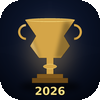
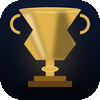
v1.2.2: ícono más grande sin texto + cache busting para forzar refresh
Diseño:
- Trofeo ocupa ~75% del canvas (antes ~55%): se ve mejor a 96-144 px
  que es el tamaño real en home screen de Android.
- Sin texto "2026" dentro del ícono. El launcher ya muestra el nombre
  "Álbum 2026" debajo, así que el texto adentro solo competía.
- Más contraste: oro más brillante (#e0b24e), fondo más oscuro
  (#030610), asas más prominentes (3% width vs 2.5%).
- Sin viñeta exagerada (a tamaño chico se veía sucia).

Cache busting:
- Todas las refs de íconos en HTML, manifest y SW llevan ?v=1.2.2.
- sw.js bumpeado a album-2026-v1.2.2 → al detectar el SW nuevo,
  el banner "Hay una versión nueva" aparece y al aplicar limpia
  el cache viejo.
- sw.js cambia a network-first para /icons/* y manifest (antes
  era cache-first, por eso los íconos viejos quedaban pegados).
- theme-color del navegador ahora #0a1432 (combina con el fondo
  del ícono).

Limitación conocida: Android cachea el ícono de las PWAs instaladas
en el launcher y NO se refresca automáticamente con un SW update.
Si ya tenés la app instalada con el ícono viejo, hay que desinstalar
(mantener apretado → Quitar) y reinstalar desde la URL.

Changed region(s): [[0.09, 0.06, 0.9, 0.96]]

diff --git a/index.html b/index.html
@@ -7,15 +7,15 @@
 <meta name="apple-mobile-web-app-status-bar-style" content="default">
 <meta name="apple-mobile-web-app-title" content="Álbum 2026">
 <meta name="mobile-web-app-capable" content="yes">
-<meta name="theme-color" content="#2563eb">
+<meta name="theme-color" content="#0a1432">
 <meta name="color-scheme" content="light">
 <meta name="format-detection" content="telephone=no">
 <meta name="referrer" content="no-referrer">
 <meta name="description" content="Llevá el control de tu álbum del Mundial 2026: marcá las que tenés, anotá las repetidas y coordiná intercambios con tu familia y tus amigos por WhatsApp. Todo se guarda en tu dispositivo, sin registro y sin servidor.">
-<link rel="icon" type="image/png" sizes="100x100" href="./icons/icon-100.png">
-<link rel="icon" type="image/png" sizes="192x192" href="./icons/icon-192.png">
-<link rel="apple-touch-icon" sizes="180x180" href="./icons/icon-180.png">
-<link rel="manifest" href="./manifest.webmanifest">
+<link rel="icon" type="image/png" sizes="100x100" href="./icons/icon-100.png?v=1.2.2">
+<link rel="icon" type="image/png" sizes="192x192" href="./icons/icon-192.png?v=1.2.2">
+<link rel="apple-touch-icon" sizes="180x180" href="./icons/icon-180.png?v=1.2.2">
+<link rel="manifest" href="./manifest.webmanifest?v=1.2.2">
 <title>Mi Álbum Mundial 2026</title>
 <style>
 *,:after,:before{--tw-border-spacing-x:0;--tw-border-spacing-y:0;--tw-translate-x:0;--tw-translate-y:0;--tw-rotate:0;--tw-skew-x:0;--tw-skew-y:0;--tw-scale-x:1;--tw-scale-y:1;--tw-pan-x: ;--tw-pan-y: ;--tw-pinch-zoom: ;--tw-scroll-snap-strictness:proximity;--tw-gradient-from-position: ;--tw-gradient-via-position: ;--tw-gradient-to-position: ;--tw-ordinal: ;--tw-slashed-zero: ;--tw-numeric-figure: ;--tw-numeric-spacing: ;--tw-numeric-fraction: ;--tw-ring-inset: ;--tw-ring-offset-width:0px;--tw-ring-offset-color:#fff;--tw-ring-color:rgba(59,130,246,.5);--tw-ring-offset-shadow:0 0 #0000;--tw-ring-shadow:0 0 #0000;--tw-shadow:0 0 #0000;--tw-shadow-colored:0 0 #0000;--tw-blur: ;--tw-brightness: ;--tw-contrast: ;--tw-grayscale: ;--tw-hue-rotate: ;--tw-invert: ;--tw-saturate: ;--tw-sepia: ;--tw-drop-shadow: ;--tw-backdrop-blur: ;--tw-backdrop-brightness: ;--tw-backdrop-contrast: ;--tw-backdrop-grayscale: ;--tw-backdrop-hue-rotate: ;--tw-backdrop-invert: ;--tw-backdrop-opacity: ;--tw-backdrop-saturate: ;--tw-backdrop-sepia: ;--tw-contain-size: ;--tw-contain-layout: ;--tw-contain-paint: ;--tw-contain-style: }::backdrop{--tw-border-spacing-x:0;--tw-border-spacing-y:0;--tw-translate-x:0;--tw-translate-y:0;--tw-rotate:0;--tw-skew-x:0;--tw-skew-y:0;--tw-scale-x:1;--tw-scale-y:1;--tw-pan-x: ;--tw-pan-y: ;--tw-pinch-zoom: ;--tw-scroll-snap-strictness:proximity;--tw-gradient-from-position: ;--tw-gradient-via-position: ;--tw-gradient-to-position: ;--tw-ordinal: ;--tw-slashed-zero: ;--tw-numeric-figure: ;--tw-numeric-spacing: ;--tw-numeric-fraction: ;--tw-ring-inset: ;--tw-ring-offset-width:0px;--tw-ring-offset-color:#fff;--tw-ring-color:rgba(59,130,246,.5);--tw-ring-offset-shadow:0 0 #0000;--tw-ring-shadow:0 0 #0000;--tw-shadow:0 0 #0000;--tw-shadow-colored:0 0 #0000;--tw-blur: ;--tw-brightness: ;--tw-contrast: ;--tw-grayscale: ;--tw-hue-rotate: ;--tw-invert: ;--tw-saturate: ;--tw-sepia: ;--tw-drop-shadow: ;--tw-backdrop-blur: ;--tw-backdrop-brightness: ;--tw-backdrop-contrast: ;--tw-backdrop-grayscale: ;--tw-backdrop-hue-rotate: ;--tw-backdrop-invert: ;--tw-backdrop-opacity: ;--tw-backdrop-saturate: ;--tw-backdrop-sepia: ;--tw-contain-size: ;--tw-contain-layout: ;--tw-contain-paint: ;--tw-contain-style: }/*! tailwindcss v3.4.16 | MIT License | https://tailwindcss.com*/*,:after,:before{box-sizing:border-box;border:0 solid #e5e7eb}:after,:before{--tw-content:""}:host,html{line-height:1.5;-webkit-text-size-adjust:100%;-moz-tab-size:4;-o-tab-size:4;tab-size:4;font-family:ui-sans-serif,system-ui,sans-serif,Apple Color Emoji,Segoe UI Emoji,Segoe UI Symbol,Noto Color Emoji;font-feature-settings:normal;font-variation-settings:normal;-webkit-tap-highlight-color:transparent}body{margin:0;line-height:inherit}hr{height:0;color:inherit;border-top-width:1px}abbr:where([title]){-webkit-text-decoration:underline dotted;text-decoration:underline dotted}h1,h2,h3,h4,h5,h6{font-size:inherit;font-weight:inherit}a{color:inherit;text-decoration:inherit}b,strong{font-weight:bolder}code,kbd,pre,samp{font-family:ui-monospace,SFMono-Regular,Menlo,Monaco,Consolas,Liberation Mono,Courier New,monospace;font-feature-settings:normal;font-variation-settings:normal;font-size:1em}small{font-size:80%}sub,sup{font-size:75%;line-height:0;position:relative;vertical-align:baseline}sub{bottom:-.25em}sup{top:-.5em}table{text-indent:0;border-color:inherit;border-collapse:collapse}button,input,optgroup,select,textarea{font-family:inherit;font-feature-settings:inherit;font-variation-settings:inherit;font-size:100%;font-weight:inherit;line-height:inherit;letter-spacing:inherit;color:inherit;margin:0;padding:0}button,select{text-transform:none}button,input:where([type=button]),input:where([type=reset]),input:where([type=submit]){-webkit-appearance:button;background-color:transparent;background-image:none}:-moz-focusring{outline:auto}:-moz-ui-invalid{box-shadow:none}progress{vertical-align:baseline}::-webkit-inner-spin-button,::-webkit-outer-spin-button{height:auto}[type=search]{-webkit-appearance:textfield;outline-offset:-2px}::-webkit-search-decoration{-webkit-appearance:none}::-webkit-file-upload-button{-webkit-appearance:button;font:inherit}summary{display:list-item}blockquote,dd,dl,figure,h1,h2,h3,h4,h5,h6,hr,p,pre{margin:0}fieldset{margin:0}fieldset,legend{padding:0}menu,ol,ul{list-style:none;margin:0;padding:0}dialog{padding:0}textarea{resize:vertical}input::-moz-placeholder,textarea::-moz-placeholder{opacity:1;color:#9ca3af}input::placeholder,textarea::placeholder{opacity:1;color:#9ca3af}[role=button],button{cursor:pointer}:disabled{cursor:default}audio,canvas,embed,iframe,img,object,svg,video{display:block;vertical-align:middle}img,video{max-width:100%;height:auto}[hidden]:where(:not([hidden=until-found])){display:none}.visible{visibility:visible}.fixed{position:fixed}.absolute{position:absolute}.relative{position:relative}.sticky{position:sticky}.inset-x-0{left:0;right:0}.-bottom-1{bottom:-.25rem}.top-0{top:0}.z-20{z-index:20}.-mx-1{margin-left:-.25rem;margin-right:-.25rem}.mx-auto{margin-left:auto;margin-right:auto}.mb-1{margin-bottom:.25rem}.mb-2{margin-bottom:.5rem}.mb-3{margin-bottom:.75rem}.mb-4{margin-bottom:1rem}.mb-5{margin-bottom:1.25rem}.mb-6{margin-bottom:1.5rem}.mb-8{margin-bottom:2rem}.ml-1{margin-left:.25rem}.mr-2{margin-right:.5rem}.mt-0{margin-top:0}.mt-0\.5{margin-top:.125rem}.mt-1{margin-top:.25rem}.mt-1\.5{margin-top:.375rem}.mt-10{margin-top:2.5rem}.mt-12{margin-top:3rem}.mt-2{margin-top:.5rem}.mt-3{margin-top:.75rem}.mt-4{margin-top:1rem}.block{display:block}.inline-block{display:inline-block}.flex{display:flex}.table{display:table}.grid{display:grid}.hidden{display:none}.aspect-square{aspect-ratio:1/1}.h-1{height:.25rem}.h-1\.5{height:.375rem}.h-2{height:.5rem}.h-4{height:1rem}.h-5{height:1.25rem}.h-7{height:1.75rem}.h-9{height:2.25rem}.h-full{height:100%}.max-h-20{max-height:5rem}.max-h-48{max-height:12rem}.w-2{width:.5rem}.w-28{width:7rem}.w-4{width:1rem}.w-5{width:1.25rem}.w-7{width:1.75rem}.w-9{width:2.25rem}.w-full{width:100%}.min-w-0{min-width:0}.max-w-3xl{max-width:48rem}.flex-1{flex:1 1 0%}.shrink-0{flex-shrink:0}.transform{transform:translate(var(--tw-translate-x),var(--tw-translate-y)) rotate(var(--tw-rotate)) skewX(var(--tw-skew-x)) skewY(var(--tw-skew-y)) scaleX(var(--tw-scale-x)) scaleY(var(--tw-scale-y))}.cursor-pointer{cursor:pointer}.resize-none{resize:none}.resize{resize:both}.grid-cols-1{grid-template-columns:repeat(1,minmax(0,1fr))}.grid-cols-2{grid-template-columns:repeat(2,minmax(0,1fr))}.grid-cols-4{grid-template-columns:repeat(4,minmax(0,1fr))}.grid-cols-5{grid-template-columns:repeat(5,minmax(0,1fr))}.flex-col{flex-direction:column}.items-start{align-items:flex-start}.items-center{align-items:center}.items-baseline{align-items:baseline}.justify-center{justify-content:center}.justify-between{justify-content:space-between}.gap-1{gap:.25rem}.gap-1\.5{gap:.375rem}.gap-2{gap:.5rem}.gap-3{gap:.75rem}.gap-x-1{-moz-column-gap:.25rem;column-gap:.25rem}.gap-x-1\.5{-moz-column-gap:.375rem;column-gap:.375rem}.gap-y-3{row-gap:.75rem}.space-y-1>:not([hidden])~:not([hidden]){--tw-space-y-reverse:0;margin-top:calc(.25rem*(1 - var(--tw-space-y-reverse)));margin-bottom:calc(.25rem*var(--tw-space-y-reverse))}.space-y-1\.5>:not([hidden])~:not([hidden]){--tw-space-y-reverse:0;margin-top:calc(.375rem*(1 - var(--tw-space-y-reverse)));margin-bottom:calc(.375rem*var(--tw-space-y-reverse))}.space-y-2>:not([hidden])~:not([hidden]){--tw-space-y-reverse:0;margin-top:calc(.5rem*(1 - var(--tw-space-y-reverse)));margin-bottom:calc(.5rem*var(--tw-space-y-reverse))}.space-y-3>:not([hidden])~:not([hidden]){--tw-space-y-reverse:0;margin-top:calc(.75rem*(1 - var(--tw-space-y-reverse)));margin-bottom:calc(.75rem*var(--tw-space-y-reverse))}.divide-x>:not([hidden])~:not([hidden]){--tw-divide-x-reverse:0;border-right-width:calc(1px*var(--tw-divide-x-reverse));border-left-width:calc(1px*(1 - var(--tw-divide-x-reverse)))}.divide-gray-100>:not([hidden])~:not([hidden]){--tw-divide-opacity:1;border-color:rgb(243 244 246/var(--tw-divide-opacity,1))}.overflow-hidden{overflow:hidden}.overflow-y-auto{overflow-y:auto}.truncate{overflow:hidden;text-overflow:ellipsis;white-space:nowrap}.break-all{word-break:break-all}.rounded-2xl{border-radius:1rem}.rounded-full{border-radius:9999px}.rounded-lg{border-radius:.5rem}.rounded-md{border-radius:.375rem}.rounded-xl{border-radius:.75rem}.border{border-width:1px}.border-2{border-width:2px}.border-b{border-bottom-width:1px}.border-b-2{border-bottom-width:2px}.border-t{border-top-width:1px}.border-amber-200{--tw-border-opacity:1;border-color:rgb(253 230 138/var(--tw-border-opacity,1))}.border-amber-300{--tw-border-opacity:1;border-color:rgb(252 211 77/var(--tw-border-opacity,1))}.border-amber-400{--tw-border-opacity:1;border-color:rgb(251 191 36/var(--tw-border-opacity,1))}.border-blue-200{--tw-border-opacity:1;border-color:rgb(191 219 254/var(--tw-border-opacity,1))}.border-blue-300{--tw-border-opacity:1;border-color:rgb(147 197 253/var(--tw-border-opacity,1))}.border-emerald-200{--tw-border-opacity:1;border-color:rgb(167 243 208/var(--tw-border-opacity,1))}.border-emerald-300{--tw-border-opacity:1;border-color:rgb(110 231 183/var(--tw-border-opacity,1))}.border-gray-100{--tw-border-opacity:1;border-color:rgb(243 244 246/var(--tw-border-opacity,1))}.border-gray-200{--tw-border-opacity:1;border-color:rgb(229 231 235/var(--tw-border-opacity,1))}.border-gray-300{--tw-border-opacity:1;border-color:rgb(209 213 219/var(--tw-border-opacity,1))}.border-indigo-200{--tw-border-opacity:1;border-color:rgb(199 210 254/var(--tw-border-opacity,1))}.border-pink-200{--tw-border-opacity:1;border-color:rgb(251 207 232/var(--tw-border-opacity,1))}.border-pink-300{--tw-border-opacity:1;border-color:rgb(249 168 212/var(--tw-border-opacity,1))}.border-purple-300{--tw-border-opacity:1;border-color:rgb(216 180 254/var(--tw-border-opacity,1))}.border-red-400{--tw-border-opacity:1;border-color:rgb(248 113 113/var(--tw-border-opacity,1))}.bg-amber-100{--tw-bg-opacity:1;background-color:rgb(254 243 199/var(--tw-bg-opacity,1))}.bg-amber-50{--tw-bg-opacity:1;background-color:rgb(255 251 235/var(--tw-bg-opacity,1))}.bg-amber-500{--tw-bg-opacity:1;background-color:rgb(245 158 11/var(--tw-bg-opacity,1))}.bg-amber-600{--tw-bg-opacity:1;background-color:rgb(217 119 6/var(--tw-bg-opacity,1))}.bg-blue-50{--tw-bg-opacity:1;background-color:rgb(239 246 255/var(--tw-bg-opacity,1))}.bg-blue-500{--tw-bg-opacity:1;background-color:rgb(59 130 246/var(--tw-bg-opacity,1))}.bg-blue-600{--tw-bg-opacity:1;background-color:rgb(37 99 235/var(--tw-bg-opacity,1))}.bg-emerald-100{--tw-bg-opacity:1;background-color:rgb(209 250 229/var(--tw-bg-opacity,1))}.bg-emerald-50{--tw-bg-opacity:1;background-color:rgb(236 253 245/var(--tw-bg-opacity,1))}.bg-emerald-600{--tw-bg-opacity:1;background-color:rgb(5 150 105/var(--tw-bg-opacity,1))}.bg-gray-100{--tw-bg-opacity:1;background-color:rgb(243 244 246/var(--tw-bg-opacity,1))}.bg-gray-50{--tw-bg-opacity:1;background-color:rgb(249 250 251/var(--tw-bg-opacity,1))}.bg-gray-900{--tw-bg-opacity:1;background-color:rgb(17 24 39/var(--tw-bg-opacity,1))}.bg-green-600{--tw-bg-opacity:1;background-color:rgb(22 163 74/var(--tw-bg-opacity,1))}.bg-indigo-50{--tw-bg-opacity:1;background-color:rgb(238 242 255/var(--tw-bg-opacity,1))}.bg-indigo-600{--tw-bg-opacity:1;background-color:rgb(79 70 229/var(--tw-bg-opacity,1))}.bg-pink-500{--tw-bg-opacity:1;background-color:rgb(236 72 153/var(--tw-bg-opacity,1))}.bg-purple-50{--tw-bg-opacity:1;background-color:rgb(250 245 255/var(--tw-bg-opacity,1))}.bg-purple-600{--tw-bg-opacity:1;background-color:rgb(147 51 234/var(--tw-bg-opacity,1))}.bg-red-100{--tw-bg-opacity:1;background-color:rgb(254 226 226/var(--tw-bg-opacity,1))}.bg-red-50{--tw-bg-opacity:1;background-color:rgb(254 242 242/var(--tw-bg-opacity,1))}.bg-red-600{--tw-bg-opacity:1;background-color:rgb(220 38 38/var(--tw-bg-opacity,1))}.bg-transparent{background-color:transparent}.bg-white{--tw-bg-opacity:1;background-color:rgb(255 255 255/var(--tw-bg-opacity,1))}.bg-white\/95{background-color:hsla(0,0%,100%,.95)}.bg-gradient-to-br{background-image:linear-gradient(to bottom right,var(--tw-gradient-stops))}.from-pink-50{--tw-gradient-from:#fdf2f8 var(--tw-gradient-from-position);--tw-gradient-to:rgba(253,242,248,0) var(--tw-gradient-to-position);--tw-gradient-stops:var(--tw-gradient-from),var(--tw-gradient-to)}.to-rose-50{--tw-gradient-to:#fff1f2 var(--tw-gradient-to-position)}.p-1{padding:.25rem}.p-3{padding:.75rem}.p-4{padding:1rem}.p-5{padding:1.25rem}.p-6{padding:1.5rem}.px-1{padding-left:.25rem;padding-right:.25rem}.px-2{padding-left:.5rem;padding-right:.5rem}.px-2\.5{padding-left:.625rem;padding-right:.625rem}.px-3{padding-left:.75rem;padding-right:.75rem}.px-4{padding-left:1rem;padding-right:1rem}.py-1{padding-top:.25rem;padding-bottom:.25rem}.py-1\.5{padding-top:.375rem;padding-bottom:.375rem}.py-2{padding-top:.5rem;padding-bottom:.5rem}.py-2\.5{padding-top:.625rem;padding-bottom:.625rem}.py-3{padding-top:.75rem;padding-bottom:.75rem}.py-4{padding-top:1rem;padding-bottom:1rem}.py-6{padding-top:1.5rem;padding-bottom:1.5rem}.pb-12{padding-bottom:3rem}.pb-2{padding-bottom:.5rem}.pb-3{padding-bottom:.75rem}.pb-32{padding-bottom:8rem}.pb-5{padding-bottom:1.25rem}.pb-6{padding-bottom:1.5rem}.pb-8{padding-bottom:2rem}.pt-3{padding-top:.75rem}.pt-4{padding-top:1rem}.text-center{text-align:center}.text-right{text-align:right}.align-text-bottom{vertical-align:text-bottom}.font-mono{font-family:ui-monospace,SFMono-Regular,Menlo,Monaco,Consolas,Liberation Mono,Courier New,monospace}.text-2xl{font-size:1.5rem;line-height:2rem}.text-3xl{font-size:1.875rem;line-height:2.25rem}.text-\[10px\]{font-size:10px}.text-\[11px\]{font-size:11px}.text-\[8px\]{font-size:8px}.text-\[9px\]{font-size:9px}.text-base{font-size:1rem;line-height:1.5rem}.text-lg{font-size:1.125rem;line-height:1.75rem}.text-sm{font-size:.875rem;line-height:1.25rem}.text-xl{font-size:1.25rem;line-height:1.75rem}.text-xs{font-size:.75rem;line-height:1rem}.font-bold{font-weight:700}.font-medium{font-weight:500}.font-semibold{font-weight:600}.uppercase{text-transform:uppercase}.italic{font-style:italic}.tabular-nums{--tw-numeric-spacing:tabular-nums;font-variant-numeric:var(--tw-ordinal) var(--tw-slashed-zero) var(--tw-numeric-figure) var(--tw-numeric-spacing) var(--tw-numeric-fraction)}.leading-none{line-height:1}.leading-relaxed{line-height:1.625}.leading-snug{line-height:1.375}.leading-tight{line-height:1.25}.tracking-\[0\.15em\]{letter-spacing:.15em}.tracking-\[0\.1em\]{letter-spacing:.1em}.tracking-tight{letter-spacing:-.025em}.tracking-wider{letter-spacing:.05em}.text-amber-600{--tw-text-opacity:1;color:rgb(217 119 6/var(--tw-text-opacity,1))}.text-amber-700{--tw-text-opacity:1;color:rgb(180 83 9/var(--tw-text-opacity,1))}.text-amber-900{--tw-text-opacity:1;color:rgb(120 53 15/var(--tw-text-opacity,1))}.text-blue-600{--tw-text-opacity:1;color:rgb(37 99 235/var(--tw-text-opacity,1))}.text-blue-700{--tw-text-opacity:1;color:rgb(29 78 216/var(--tw-text-opacity,1))}.text-emerald-600{--tw-text-opacity:1;color:rgb(5 150 105/var(--tw-text-opacity,1))}.text-emerald-700{--tw-text-opacity:1;color:rgb(4 120 87/var(--tw-text-opacity,1))}.text-emerald-800{--tw-text-opacity:1;color:rgb(6 95 70/var(--tw-text-opacity,1))}.text-emerald-900{--tw-text-opacity:1;color:rgb(6 78 59/var(--tw-text-opacity,1))}.text-gray-300{--tw-text-opacity:1;color:rgb(209 213 219/var(--tw-text-opacity,1))}.text-gray-400{--tw-text-opacity:1;color:rgb(156 163 175/var(--tw-text-opacity,1))}.text-gray-500{--tw-text-opacity:1;color:rgb(107 114 128/var(--tw-text-opacity,1))}.text-gray-600{--tw-text-opacity:1;color:rgb(75 85 99/var(--tw-text-opacity,1))}.text-gray-700{--tw-text-opacity:1;color:rgb(55 65 81/var(--tw-text-opacity,1))}.text-gray-900{--tw-text-opacity:1;color:rgb(17 24 39/var(--tw-text-opacity,1))}.text-green-600{--tw-text-opacity:1;color:rgb(22 163 74/var(--tw-text-opacity,1))}.text-green-700{--tw-text-opacity:1;color:rgb(21 128 61/var(--tw-text-opacity,1))}.text-indigo-600{--tw-text-opacity:1;color:rgb(79 70 229/var(--tw-text-opacity,1))}.text-indigo-700{--tw-text-opacity:1;color:rgb(67 56 202/var(--tw-text-opacity,1))}.text-pink-700{--tw-text-opacity:1;color:rgb(190 24 93/var(--tw-text-opacity,1))}.text-purple-600{--tw-text-opacity:1;color:rgb(147 51 234/var(--tw-text-opacity,1))}.text-purple-700{--tw-text-opacity:1;color:rgb(126 34 206/var(--tw-text-opacity,1))}.text-red-500{--tw-text-opacity:1;color:rgb(239 68 68/var(--tw-text-opacity,1))}.text-red-600{--tw-text-opacity:1;color:rgb(220 38 38/var(--tw-text-opacity,1))}.text-red-900{--tw-text-opacity:1;color:rgb(127 29 29/var(--tw-text-opacity,1))}.text-white{--tw-text-opacity:1;color:rgb(255 255 255/var(--tw-text-opacity,1))}.text-white\/80{color:hsla(0,0%,100%,.8)}.text-white\/90{color:hsla(0,0%,100%,.9)}.underline{text-decoration-line:underline}.opacity-60{opacity:.6}.opacity-70{opacity:.7}.opacity-90{opacity:.9}.shadow-sm{--tw-shadow:0 1px 2px 0 rgba(0,0,0,.05);--tw-shadow-colored:0 1px 2px 0 var(--tw-shadow-color);box-shadow:var(--tw-ring-offset-shadow,0 0 #0000),var(--tw-ring-shadow,0 0 #0000),var(--tw-shadow)}.outline{outline-style:solid}.blur{--tw-blur:blur(8px)}.blur,.filter{filter:var(--tw-blur) var(--tw-brightness) var(--tw-contrast) var(--tw-grayscale) var(--tw-hue-rotate) var(--tw-invert) var(--tw-saturate) var(--tw-sepia) var(--tw-drop-shadow)}.backdrop-blur-md{--tw-backdrop-blur:blur(12px);-webkit-backdrop-filter:var(--tw-backdrop-blur) var(--tw-backdrop-brightness) var(--tw-backdrop-contrast) var(--tw-backdrop-grayscale) var(--tw-backdrop-hue-rotate) var(--tw-backdrop-invert) var(--tw-backdrop-opacity) var(--tw-backdrop-saturate) var(--tw-backdrop-sepia);backdrop-filter:var(--tw-backdrop-blur) var(--tw-backdrop-brightness) var(--tw-backdrop-contrast) var(--tw-backdrop-grayscale) var(--tw-backdrop-hue-rotate) var(--tw-backdrop-invert) var(--tw-backdrop-opacity) var(--tw-backdrop-saturate) var(--tw-backdrop-sepia)}.transition-all{transition-property:all;transition-timing-function:cubic-bezier(.4,0,.2,1);transition-duration:.15s}.transition-colors{transition-property:color,background-color,border-color,text-decoration-color,fill,stroke;transition-timing-function:cubic-bezier(.4,0,.2,1);transition-duration:.15s}.duration-300{transition-duration:.3s}.focus\:border-amber-500:focus{--tw-border-opacity:1;border-color:rgb(245 158 11/var(--tw-border-opacity,1))}.focus\:border-blue-500:focus{--tw-border-opacity:1;border-color:rgb(59 130 246/var(--tw-border-opacity,1))}.focus\:border-emerald-500:focus{--tw-border-opacity:1;border-color:rgb(16 185 129/var(--tw-border-opacity,1))}.focus\:outline-none:focus{outline:2px solid transparent;outline-offset:2px}.active\:bg-amber-600:active{--tw-bg-opacity:1;background-color:rgb(217 119 6/var(--tw-bg-opacity,1))}.active\:bg-amber-700:active{--tw-bg-opacity:1;background-color:rgb(180 83 9/var(--tw-bg-opacity,1))}.active\:bg-blue-50:active{--tw-bg-opacity:1;background-color:rgb(239 246 255/var(--tw-bg-opacity,1))}.active\:bg-blue-600:active{--tw-bg-opacity:1;background-color:rgb(37 99 235/var(--tw-bg-opacity,1))}.active\:bg-emerald-100:active{--tw-bg-opacity:1;background-color:rgb(209 250 229/var(--tw-bg-opacity,1))}.active\:bg-emerald-700:active{--tw-bg-opacity:1;background-color:rgb(4 120 87/var(--tw-bg-opacity,1))}.active\:bg-gray-100:active{--tw-bg-opacity:1;background-color:rgb(243 244 246/var(--tw-bg-opacity,1))}.active\:bg-gray-200:active{--tw-bg-opacity:1;background-color:rgb(229 231 235/var(--tw-bg-opacity,1))}.active\:bg-green-700:active{--tw-bg-opacity:1;background-color:rgb(21 128 61/var(--tw-bg-opacity,1))}.active\:bg-indigo-100:active{--tw-bg-opacity:1;background-color:rgb(224 231 255/var(--tw-bg-opacity,1))}.active\:bg-indigo-700:active{--tw-bg-opacity:1;background-color:rgb(67 56 202/var(--tw-bg-opacity,1))}.active\:bg-pink-50:active{--tw-bg-opacity:1;background-color:rgb(253 242 248/var(--tw-bg-opacity,1))}.active\:bg-pink-600:active{--tw-bg-opacity:1;background-color:rgb(219 39 119/var(--tw-bg-opacity,1))}.active\:bg-purple-100:active{--tw-bg-opacity:1;background-color:rgb(243 232 255/var(--tw-bg-opacity,1))}.active\:bg-purple-700:active{--tw-bg-opacity:1;background-color:rgb(126 34 206/var(--tw-bg-opacity,1))}.active\:text-blue-800:active{--tw-text-opacity:1;color:rgb(30 64 175/var(--tw-text-opacity,1))}.active\:text-emerald-900:active{--tw-text-opacity:1;color:rgb(6 78 59/var(--tw-text-opacity,1))}.active\:text-gray-600:active{--tw-text-opacity:1;color:rgb(75 85 99/var(--tw-text-opacity,1))}.active\:text-indigo-800:active{--tw-text-opacity:1;color:rgb(55 48 163/var(--tw-text-opacity,1))}.active\:text-red-500:active{--tw-text-opacity:1;color:rgb(239 68 68/var(--tw-text-opacity,1))}.active\:text-white:active{--tw-text-opacity:1;color:rgb(255 255 255/var(--tw-text-opacity,1))}@media (min-width:640px){.sm\:grid-cols-10{grid-template-columns:repeat(10,minmax(0,1fr))}.sm\:grid-cols-2{grid-template-columns:repeat(2,minmax(0,1fr))}.sm\:grid-cols-7{grid-template-columns:repeat(7,minmax(0,1fr))}.sm\:text-sm{font-size:.875rem;line-height:1.25rem}}
@@ -146,7 +146,7 @@ const ejecutarPromptInstalacion = async () => {
 // ====== CONTROL DE VERSIÓN Y ACTUALIZACIONES ======
 // La versión que se ve en el footer y se compara con la del SW para detectar
 // si hay una versión nueva descargada esperando aplicarse.
-const APP_VERSION = '1.2';
+const APP_VERSION = '1.2.2';
 const APP_BUILD = '2026-05-18';
 const STORAGE_KEY_UPDATE_DISMISS = 'album-mundial-2026-update-dismiss';
 
@@ -1988,7 +1988,7 @@ function render() {
     <footer class="max-w-3xl mx-auto px-4 pb-12 pt-4 border-t border-gray-100">
       <div class="flex items-center justify-between text-[11px] text-gray-400">
         <div class="flex items-center gap-2">
-          <img src="./icons/icon-100.png" alt="" width="20" height="20" class="rounded-md" onerror="this.style.display='none'">
+          <img src="./icons/icon-100.png?v=1.2.2" alt="" width="20" height="20" class="rounded-md" onerror="this.style.display='none'">
           <span class="font-semibold text-gray-500">Álbum Mundial 2026</span>
           <span class="tabular-nums">v${APP_VERSION}</span>
         </div>

diff --git a/sw.js b/sw.js
@@ -13,21 +13,21 @@
 // hacerlo nuestro listener 'updatefound' en el HTML va a disparar y mostrarle
 // al usuario el banner "Hay una versión nueva".
 
-const CACHE_VERSION = 'album-2026-v1.2';
+const CACHE_VERSION = 'album-2026-v1.2.2';
 const URLS_A_CACHEAR = [
   './',
   './index.html',
-  './manifest.webmanifest',
-  './icons/icon-100.png',
-  './icons/icon-180.png',
-  './icons/icon-192.png',
-  './icons/icon-512.png',
+  './manifest.webmanifest?v=1.2.2',
+  './icons/icon-100.png?v=1.2.2',
+  './icons/icon-180.png?v=1.2.2',
+  './icons/icon-192.png?v=1.2.2',
+  './icons/icon-512.png?v=1.2.2',
+  './icons/icon-512-maskable.png?v=1.2.2',
 ];
 
 self.addEventListener('install', (event) => {
   event.waitUntil(
     caches.open(CACHE_VERSION).then((cache) =>
-      // addAll falla si UN solo recurso falla; usamos add individual con catch.
       Promise.all(URLS_A_CACHEAR.map((url) =>
         cache.add(url).catch(() => null)
       ))
@@ -45,7 +45,6 @@ self.addEventListener('activate', (event) => {
   );
 });
 
-// Mensajes desde la página (para aplicar updates a pedido)
 self.addEventListener('message', (event) => {
   if (!event.data) return;
   if (event.data.type === 'SKIP_WAITING') {
@@ -58,7 +57,6 @@ self.addEventListener('fetch', (event) => {
   if (req.method !== 'GET') return;
 
   const url = new URL(req.url);
-  // Solo intervenimos en peticiones a nuestro origen
   if (url.origin !== self.location.origin) return;
 
   const esNavegacion = req.mode === 'navigate' ||
@@ -66,8 +64,8 @@ self.addEventListener('fetch', (event) => {
     (req.headers.get('accept') || '').includes('text/html');
 
   if (esNavegacion) {
-    // Network-first para la navegación: así, si publicamos una versión nueva,
-    // los usuarios la reciben al toque cuando están online.
+    // Network-first para la navegación: si publicamos una versión nueva,
+    // los usuarios la reciben enseguida cuando están online.
     event.respondWith(
       fetch(req).then((res) => {
         if (res && res.status === 200) {
@@ -82,7 +80,22 @@ self.addEventListener('fetch', (event) => {
     return;
   }
 
-  // Cache-first para el resto (íconos, manifest, etc.)
+  // Para los íconos, network-first también: así si cambian, los recibís
+  // al toque y no se quedan pegados los viejos al actualizar la app.
+  if (url.pathname.includes('/icons/') || url.pathname.endsWith('manifest.webmanifest')) {
+    event.respondWith(
+      fetch(req).then((res) => {
+        if (res && (res.status === 200 || res.type === 'opaque')) {
+          const copia = res.clone();
+          caches.open(CACHE_VERSION).then((cache) => cache.put(req, copia)).catch(() => {});
+        }
+        return res;
+      }).catch(() => caches.match(req))
+    );
+    return;
+  }
+
+  // Cache-first para el resto
   event.respondWith(
     caches.match(req).then((cached) => {
       if (cached) return cached;

diff --git a/CHANGELOG.md b/CHANGELOG.md
@@ -1,5 +1,23 @@
 # Changelog
 
+## v1.2.2 — 2026-05-18
+
+- Trofeo más grande (ocupa ~75% del canvas), sin texto "2026" para que
+  no compita con el ícono a tamaño de home screen Android (96-144 px).
+  El nombre "Álbum 2026" ya aparece debajo del ícono en el launcher.
+- Más contraste: oro más brillante, fondo más oscuro, asas más prominentes.
+- Cache busting `?v=1.2.2` en todas las refs de íconos y manifest para
+  forzar refresh en navegadores que tengan los íconos viejos cacheados.
+- sw.js v1.2.2 con network-first para íconos y manifest (antes era
+  cache-first y se quedaban pegados los íconos viejos al actualizar).
+- theme-color del navegador alineado con el fondo del ícono.
+
+Importante: si ya instalaste la app en Android con la versión vieja
+(la pelota azul), Android cachea ese ícono en el launcher y no lo
+refresca solo. Para ver el trofeo nuevo: desinstalá la PWA de la
+pantalla de inicio (mantené apretado el ícono → Quitar/Desinstalar)
+y volvé a instalarla desde la URL.
+
 ## v1.2.1 — 2026-05-18
 
 - Rediseño del set de íconos: silueta de chalice (copa clásica con asas,
